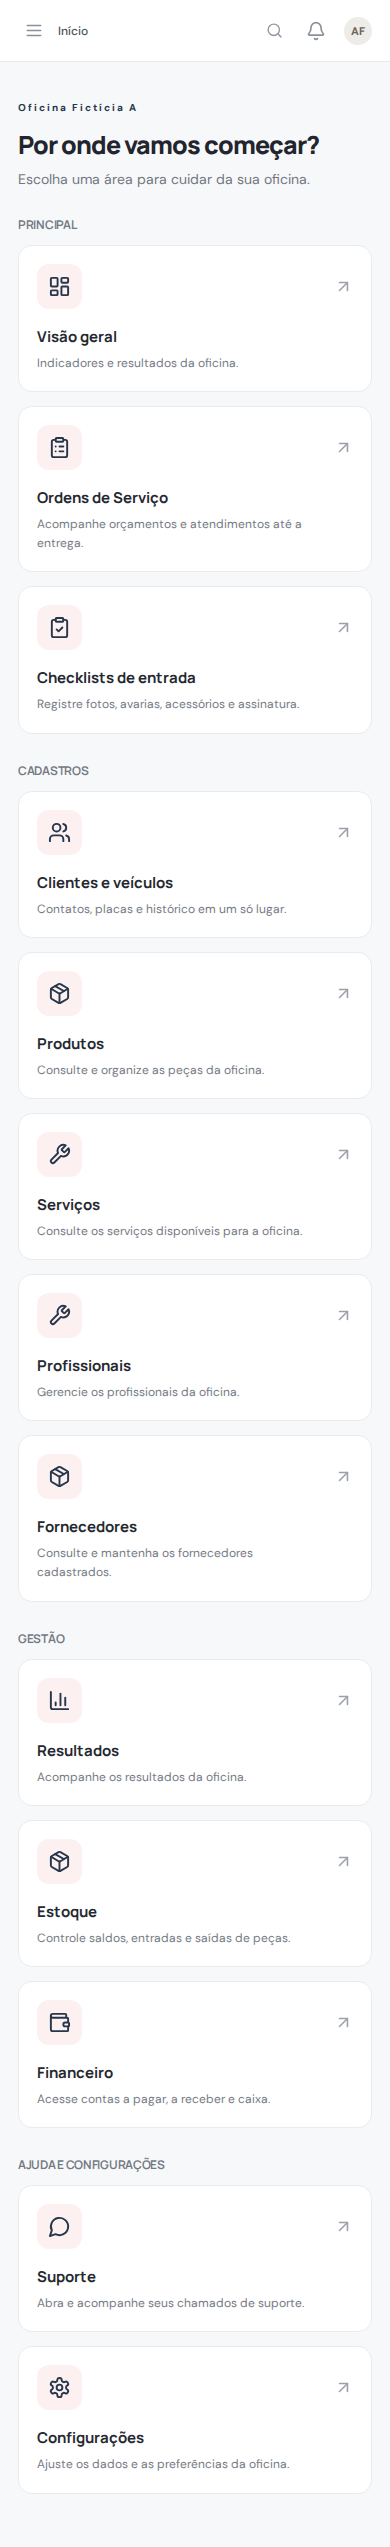
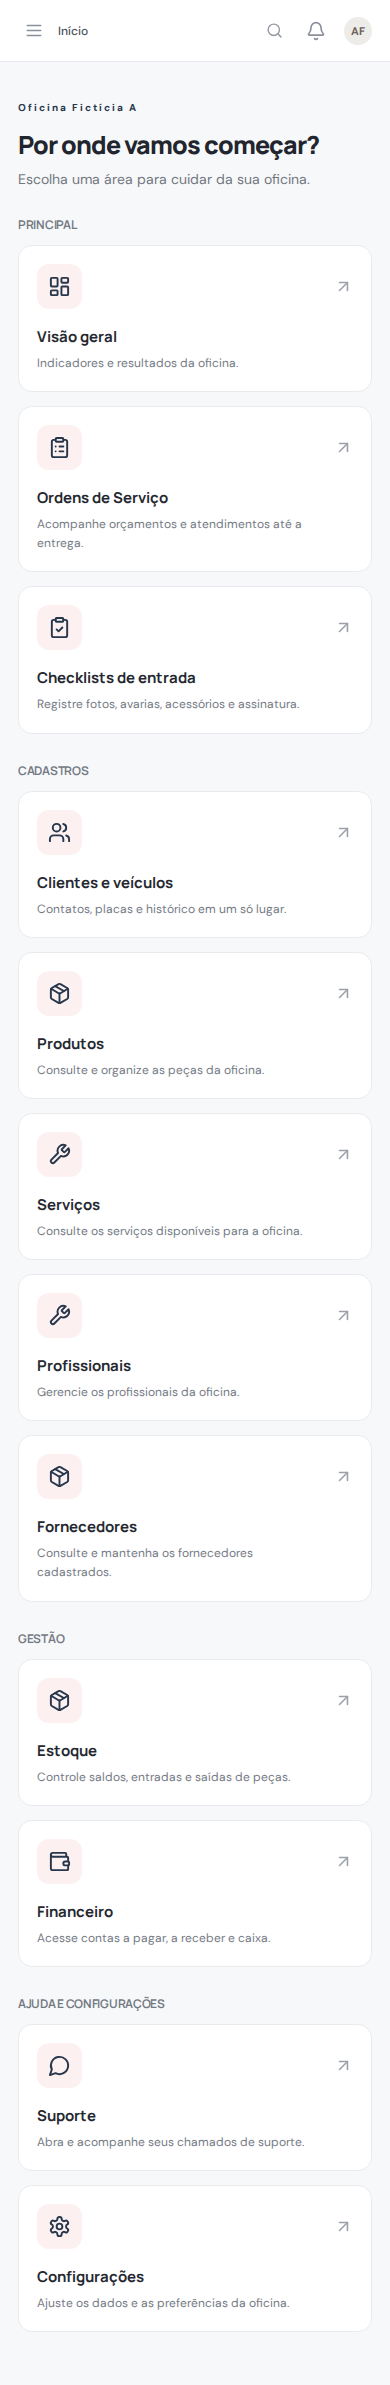
docs(visual): refresh home captures after Resultados removal

diff --git a/docs/mapeamento-visual/CHECKLIST.md b/docs/mapeamento-visual/CHECKLIST.md
@@ -8,7 +8,7 @@ Estados: capturada, pendente, bloqueada e não aplicável.
 |---|---|---|---|---|---|---|---|
 | gestao-resultados-periodo | Resultados da oficina | Resultados por intervalo — Filtro livre de datas, indicadores, metas e relatório PDF com dados fictícios da oficina. | — | não aplicável | 2026-11-14 | 96dfa252baed53629b2ed0b51f630ade3f588ebd | Módulo Resultados removido; usar os relatórios de Financeiro. |
 | login-oficina | Login e acesso | Login da oficina — Tela inicial de autenticação, sem usuário ou senha preenchidos. | [`capturas/01-login-acesso/login-oficina.png`](./capturas/01-login-acesso/login-oficina.png) | capturada | 2026-10-22 | não registrado | Captura real com dados fictícios feita em 22/10/2026. O commit de origem não foi registrado; recaptura Playwright e atualização do commit estão pendentes. |
-| inicio-oficina-a | Dashboard | Início da Oficina Fictícia A — Menu e atalhos da conta de demonstração. | [`capturas/02-dashboard/inicio-oficina.png`](./capturas/02-dashboard/inicio-oficina.png) | capturada | 2026-11-14 | ba196677c2a1e52f6c7b795b1a31cff1c39cf0f5 | Captura Playwright no CI com oficina fictícia e PostgreSQL 17 temporário. |
+| inicio-oficina-a | Dashboard | Início da Oficina Fictícia A — Menu e atalhos da conta de demonstração. | [`capturas/02-dashboard/inicio-oficina.png`](./capturas/02-dashboard/inicio-oficina.png) | capturada | 2026-11-14 | c5aebc1bb00a73ac99f6575c8b39f25434b82278 | Captura Playwright no CI com oficina fictícia e PostgreSQL 17 temporário. |
 | dashboard-oficina-a | Dashboard | Visão geral da Oficina Fictícia A — Indicadores vazios da oficina de teste. | [`capturas/02-dashboard/dashboard-oficina.png`](./capturas/02-dashboard/dashboard-oficina.png) | capturada | 2026-10-22 | não registrado | Captura real com dados fictícios feita em 22/10/2026. O commit de origem não foi registrado; recaptura Playwright e atualização do commit estão pendentes. |
 | inicio-oficina-b | Dashboard | Início da Oficina Fictícia B — Menu e atalhos em uma segunda conta fictícia. | [`capturas/02-dashboard/inicio-oficina-oficina-b.png`](./capturas/02-dashboard/inicio-oficina-oficina-b.png) | capturada | 2026-10-22 | não registrado | Captura real com dados fictícios feita em 22/10/2026. O commit de origem não foi registrado; recaptura Playwright e atualização do commit estão pendentes. |
 | dashboard-oficina-b | Dashboard | Visão geral da Oficina Fictícia B — Indicadores da segunda conta fictícia para referência de isolamento. | [`capturas/02-dashboard/dashboard-oficina-b.png`](./capturas/02-dashboard/dashboard-oficina-b.png) | capturada | 2026-10-22 | não registrado | Captura real com dados fictícios feita em 22/10/2026. O commit de origem não foi registrado; recaptura Playwright e atualização do commit estão pendentes. |
@@ -42,7 +42,7 @@ Estados: capturada, pendente, bloqueada e não aplicável.
 | config-lucro-pecas | Configurações da oficina | Lucro de peças e terceiros — Faixas editáveis de peças e terceiros com simuladores que mostram o preço sugerido. | [`capturas/14-configuracoes/lucro-pecas-terceiros.png`](./capturas/14-configuracoes/lucro-pecas-terceiros.png) | capturada | 2026-11-14 | 3f53da28177e3d9d5cca9811e7a403e008863a9a | — |
 | login-painel-central | Painel Administrativo Central | Login do Painel Administrativo Central — Formulário vazio; nenhuma credencial ou código MFA aparece na captura. | [`capturas/17-painel-admin-central/login-admin-central.png`](./capturas/17-painel-admin-central/login-admin-central.png) | capturada | 2026-10-22 | não registrado | Captura real com dados fictícios feita em 22/10/2026. O commit de origem não foi registrado; recaptura Playwright e atualização do commit estão pendentes. |
 | login-oficina-desktop | Login e acesso | Login da oficina — Tela inicial de autenticação, sem usuário ou senha preenchidos. | `capturas/01-login-acesso/login-oficina-desktop.png` (previsto) | pendente | — | não registrado | Variante desktop ainda não foi gerada. Execute a captura Playwright em ambiente local de teste. |
-| inicio-oficina-a-desktop | Dashboard | Início da Oficina Fictícia A — Menu e atalhos da conta de demonstração. | [`capturas/02-dashboard/inicio-oficina-desktop.png`](./capturas/02-dashboard/inicio-oficina-desktop.png) | capturada | 2026-11-14 | ba196677c2a1e52f6c7b795b1a31cff1c39cf0f5 | Captura Playwright no CI com oficina fictícia e PostgreSQL 17 temporário. |
+| inicio-oficina-a-desktop | Dashboard | Início da Oficina Fictícia A — Menu e atalhos da conta de demonstração. | [`capturas/02-dashboard/inicio-oficina-desktop.png`](./capturas/02-dashboard/inicio-oficina-desktop.png) | capturada | 2026-11-14 | c5aebc1bb00a73ac99f6575c8b39f25434b82278 | Captura Playwright no CI com oficina fictícia e PostgreSQL 17 temporário. |
 | dashboard-oficina-a-desktop | Dashboard | Visão geral da Oficina Fictícia A — Indicadores vazios da oficina de teste. | `capturas/02-dashboard/dashboard-oficina-desktop.png` (previsto) | pendente | — | não registrado | Variante desktop ainda não foi gerada. Execute a captura Playwright em ambiente local de teste. |
 | inicio-oficina-b-desktop | Dashboard | Início da Oficina Fictícia B — Menu e atalhos em uma segunda conta fictícia. | `capturas/02-dashboard/inicio-oficina-oficina-b-desktop.png` (previsto) | pendente | — | não registrado | Variante desktop ainda não foi gerada. Execute a captura Playwright em ambiente local de teste. |
 | dashboard-oficina-b-desktop | Dashboard | Visão geral da Oficina Fictícia B — Indicadores da segunda conta fictícia para referência de isolamento. | `capturas/02-dashboard/dashboard-oficina-b-desktop.png` (previsto) | pendente | — | não registrado | Variante desktop ainda não foi gerada. Execute a captura Playwright em ambiente local de teste. |

diff --git a/docs/mapeamento-visual/INDEX.md b/docs/mapeamento-visual/INDEX.md
@@ -80,7 +80,7 @@ Menu e atalhos da conta de demonstração.
 
 [![Início da Oficina Fictícia A](./capturas/02-dashboard/inicio-oficina.png)](./capturas/02-dashboard/inicio-oficina.png)
 
-Estado: capturada · mobile · captura 2026-11-14 · commit de origem: ba196677c2a1e52f6c7b795b1a31cff1c39cf0f5 · [arquivo completo](./capturas/02-dashboard/inicio-oficina.png)
+Estado: capturada · mobile · captura 2026-11-14 · commit de origem: c5aebc1bb00a73ac99f6575c8b39f25434b82278 · [arquivo completo](./capturas/02-dashboard/inicio-oficina.png)
 
 ### Visão geral da Oficina Fictícia A
 
@@ -112,7 +112,7 @@ Menu e atalhos da conta de demonstração.
 
 [![Início da Oficina Fictícia A](./capturas/02-dashboard/inicio-oficina-desktop.png)](./capturas/02-dashboard/inicio-oficina-desktop.png)
 
-Estado: capturada · desktop · captura 2026-11-14 · commit de origem: ba196677c2a1e52f6c7b795b1a31cff1c39cf0f5 · [arquivo completo](./capturas/02-dashboard/inicio-oficina-desktop.png)
+Estado: capturada · desktop · captura 2026-11-14 · commit de origem: c5aebc1bb00a73ac99f6575c8b39f25434b82278 · [arquivo completo](./capturas/02-dashboard/inicio-oficina-desktop.png)
 
 ## 03 — Clientes
 
